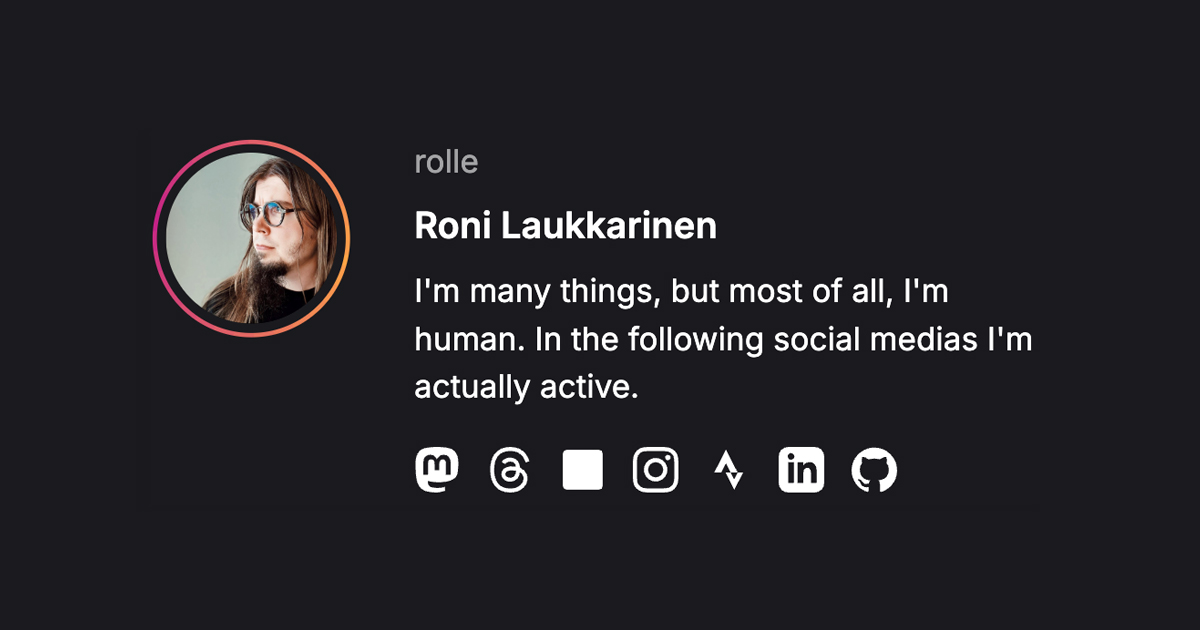
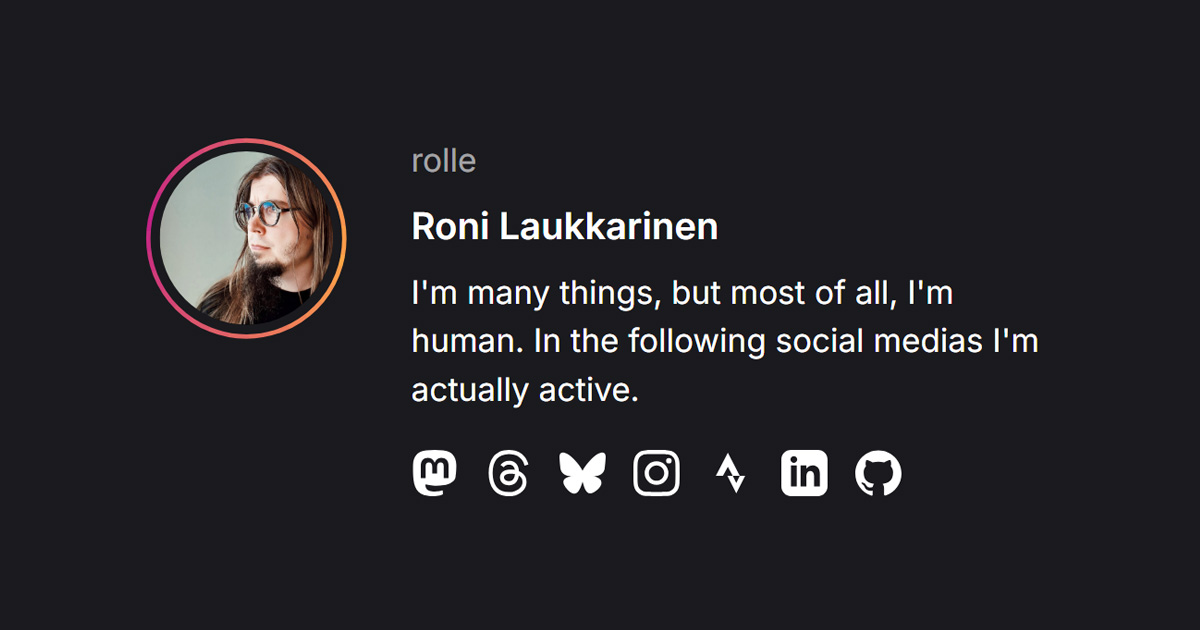
Update bluesky brand

diff --git a/index.html b/index.html
@@ -509,6 +509,12 @@
         zoom: 1.1;
       }
     }
+
+    html #modern_scroll {
+      display: none !important;
+      /* A hack, I do know it does not exist */
+      all: none !important;
+    }
   </style>
 </head>
 
@@ -706,12 +712,12 @@
           </li>
           <li>
             <a href="https://bsky.app/profile/rolle.wtf" aria-label="Bluesky">
-              <svg xmlns="http://www.w3.org/2000/svg" viewBox="0 0 448 512"><path fill="currentColor" d="M400 32H48C21.5 32 0 53.5 0 80v352c0 26.5 21.5 48 48 48h352c26.5 0 48-21.5 48-48V80c0-26.5-21.5-48-48-48z"/></svg>
+              <svg width="24" height="21" aria-hidden="true" viewBox="0 0 360 320" xmlns="http://www.w3.org/2000/svg" class="h-6 w-6" fill="currentColor"><path d="M254.896 184.158C252.81 183.926 250.733 183.645 248.671 183.315C250.773 183.574 252.849 183.855 254.896 184.158Z"></path><path d="M180 141.964C163.699 110.262 119.308 51.1817 78.0347 22.044C38.4971 -5.86834 23.414 -1.03207 13.526 3.43594C2.08093 8.60755 0 26.1785 0 36.5164C0 46.8542 5.66748 121.272 9.36416 133.694C21.5786 174.738 65.0603 188.607 105.104 184.156C107.151 183.852 109.227 183.572 111.329 183.312C109.267 183.642 107.19 183.924 105.104 184.156C46.4204 192.847 -5.69621 214.233 62.6582 290.33C137.848 368.18 165.705 273.637 180 225.702C194.295 273.637 210.76 364.771 295.995 290.33C360 225.702 313.58 192.85 254.896 184.158C252.81 183.926 250.733 183.645 248.671 183.315C250.773 183.574 252.849 183.855 254.896 184.158C294.94 188.61 338.421 174.74 350.636 133.697C354.333 121.275 360 46.8568 360 36.519C360 26.1811 357.919 8.61012 346.474 3.43851C336.586 -1.02949 321.503 -5.86576 281.965 22.0466C240.692 51.1843 196.301 110.262 180 141.964Z"></path></svg>
             </a>
           </li>
           <li>
             <a href="https://instagram.com/rolle_" aria-label="Instagram">
-              <svg viewBox="0 0 24 24" aria-hidden="true" xmlns="http://www.w3.org/2000/svg" width="32" height="32" fill="currentColor"><path d="M12 0C8.74 0 8.333.015 7.053.072 5.775.132 4.905.333 4.14.63c-.789.306-1.459.717-2.126 1.384S.935 3.35.63 4.14C.333 4.905.131 5.775.072 7.053.012 8.333 0 8.74 0 12s.015 3.667.072 4.947c.06 1.277.261 2.148.558 2.913a5.885 5.885 0 0 0 1.384 2.126A5.868 5.868 0 0 0 4.14 23.37c.766.296 1.636.499 2.913.558C8.333 23.988 8.74 24 12 24s3.667-.015 4.947-.072c1.277-.06 2.148-.262 2.913-.558a5.898 5.898 0 0 0 2.126-1.384 5.86 5.86 0 0 0 1.384-2.126c.296-.765.499-1.636.558-2.913.06-1.28.072-1.687.072-4.947s-.015-3.667-.072-4.947c-.06-1.277-.262-2.149-.558-2.913a5.89 5.89 0 0 0-1.384-2.126A5.847 5.847 0 0 0 19.86.63c-.765-.297-1.636-.499-2.913-.558C15.667.012 15.26 0 12 0zm0 2.16c3.203 0 3.585.016 4.85.071 1.17.055 1.805.249 2.227.415.562.217.96.477 1.382.896.419.42.679.819.896 1.381.164.422.36 1.057.413 2.227.057 1.266.07 1.646.07 4.85s-.015 3.585-.074 4.85c-.061 1.17-.256 1.805-.421 2.227a3.81 3.81 0 0 1-.899 1.382 3.744 3.744 0 0 1-1.38.896c-.42.164-1.065.36-2.235.413-1.274.057-1.649.07-4.859.07-3.211 0-3.586-.015-4.859-.074-1.171-.061-1.816-.256-2.236-.421a3.716 3.716 0 0 1-1.379-.899 3.644 3.644 0 0 1-.9-1.38c-.165-.42-.359-1.065-.42-2.235-.045-1.26-.061-1.649-.061-4.844 0-3.196.016-3.586.061-4.861.061-1.17.255-1.814.42-2.234.21-.57.479-.96.9-1.381.419-.419.81-.689 1.379-.898.42-.166 1.051-.361 2.221-.421 1.275-.045 1.65-.06 4.859-.06l.045.03zm0 3.678a6.162 6.162 0 1 0 0 12.324 6.162 6.162 0 1 0 0-12.324zM12 16c-2.21 0-4-1.79-4-4s1.79-4 4-4 4 1.79 4 4-1.79 4-4 4zm7.846-10.405a1.441 1.441 0 0 1-2.88 0 1.44 1.44 0 0 1 2.88 0z"></path></svg>
+              <svg viewBox="0 0 24 24" width="24" height="24" aria-hidden="true" xmlns="http://www.w3.org/2000/svg" width="32" height="32" fill="currentColor"><path d="M12 0C8.74 0 8.333.015 7.053.072 5.775.132 4.905.333 4.14.63c-.789.306-1.459.717-2.126 1.384S.935 3.35.63 4.14C.333 4.905.131 5.775.072 7.053.012 8.333 0 8.74 0 12s.015 3.667.072 4.947c.06 1.277.261 2.148.558 2.913a5.885 5.885 0 0 0 1.384 2.126A5.868 5.868 0 0 0 4.14 23.37c.766.296 1.636.499 2.913.558C8.333 23.988 8.74 24 12 24s3.667-.015 4.947-.072c1.277-.06 2.148-.262 2.913-.558a5.898 5.898 0 0 0 2.126-1.384 5.86 5.86 0 0 0 1.384-2.126c.296-.765.499-1.636.558-2.913.06-1.28.072-1.687.072-4.947s-.015-3.667-.072-4.947c-.06-1.277-.262-2.149-.558-2.913a5.89 5.89 0 0 0-1.384-2.126A5.847 5.847 0 0 0 19.86.63c-.765-.297-1.636-.499-2.913-.558C15.667.012 15.26 0 12 0zm0 2.16c3.203 0 3.585.016 4.85.071 1.17.055 1.805.249 2.227.415.562.217.96.477 1.382.896.419.42.679.819.896 1.381.164.422.36 1.057.413 2.227.057 1.266.07 1.646.07 4.85s-.015 3.585-.074 4.85c-.061 1.17-.256 1.805-.421 2.227a3.81 3.81 0 0 1-.899 1.382 3.744 3.744 0 0 1-1.38.896c-.42.164-1.065.36-2.235.413-1.274.057-1.649.07-4.859.07-3.211 0-3.586-.015-4.859-.074-1.171-.061-1.816-.256-2.236-.421a3.716 3.716 0 0 1-1.379-.899 3.644 3.644 0 0 1-.9-1.38c-.165-.42-.359-1.065-.42-2.235-.045-1.26-.061-1.649-.061-4.844 0-3.196.016-3.586.061-4.861.061-1.17.255-1.814.42-2.234.21-.57.479-.96.9-1.381.419-.419.81-.689 1.379-.898.42-.166 1.051-.361 2.221-.421 1.275-.045 1.65-.06 4.859-.06l.045.03zm0 3.678a6.162 6.162 0 1 0 0 12.324 6.162 6.162 0 1 0 0-12.324zM12 16c-2.21 0-4-1.79-4-4s1.79-4 4-4 4 1.79 4 4-1.79 4-4 4zm7.846-10.405a1.441 1.441 0 0 1-2.88 0 1.44 1.44 0 0 1 2.88 0z"></path></svg>
             </a>
           </li>
           <li>
